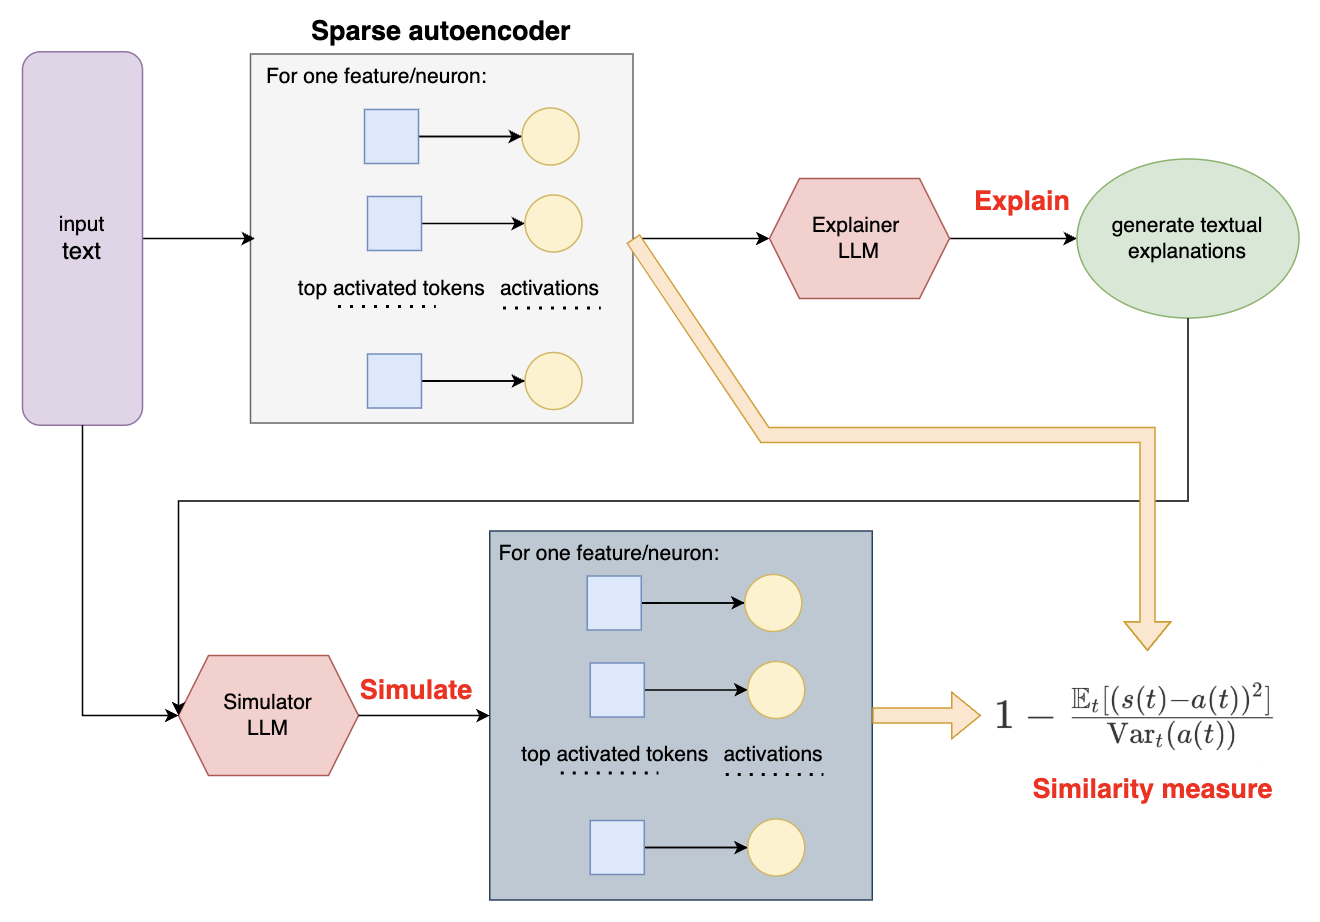
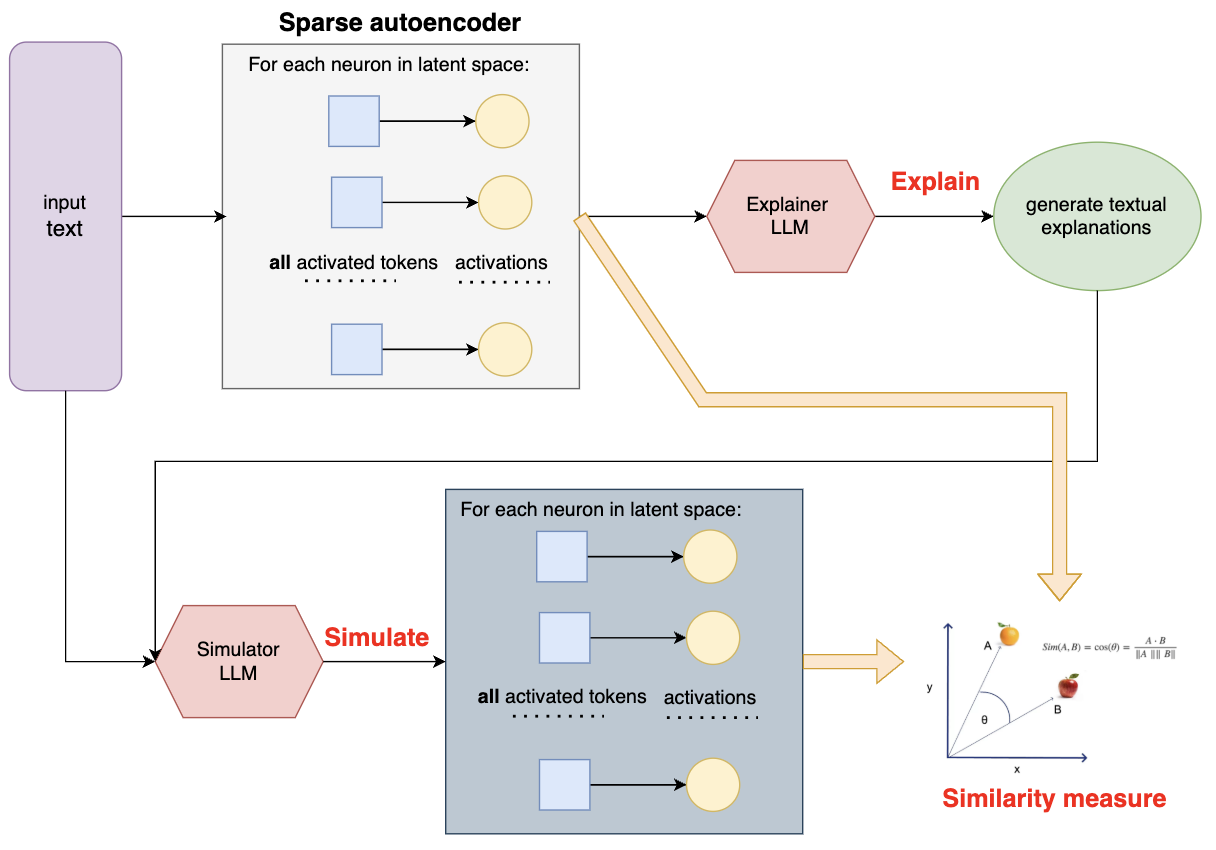
contrastive eval diagram

diff --git a/interpretability_eval/explain_simulate_eval.py b/interpretability_eval/explain_simulate_eval.py
@@ -5,8 +5,89 @@ import openai
 import os
 import pandas as pd
 from dotenv import load_dotenv
+from tqdm import tqdm
 from transformers import AutoTokenizer, GPT2Tokenizer
 from sae_lens import SAE, HookedSAETransformer
+from sklearn.metrics.pairwise import cosine_similarity
+from pydantic import BaseModel
+
+
+def explain(tokens: list[str], activations: np.array, client: openai.OpenAI):
+    """
+        Generate an explanation for the feature based on the top tokens and their activations.
+    """
+
+    token_activations = [(token, round(act.item() * 100)) for token, act in zip(tokens, activations)]
+    token_activations_str = "\n".join([f"{token}\t{act}" for token, act in token_activations])
+    non_zero_activations = [(token, act) for token, act in token_activations if act > 0]
+    non_zero_activations_str = "\n".join(f"{token}\t{act}" for token, act in non_zero_activations)
+    # print(token_activations)
+    prompt = f"""
+                We're studying neurons in a neural network. Each neuron looks for some particular thing in a short document. Look at the parts of the document the neuron activates for and summarize in a single sentence what the neuron is looking for. Don't list examples of words.
+
+                The activation format is token<tab>activation. Activation values range from 0 to 10. A neuron finding what it's looking for is represented by a non-zero activation value. The higher the activation value, the stronger the match.
+
+                Activations:
+                <start>
+                {
+                    token_activations_str
+                }
+                <end>
+
+                Same activations, but with all zeros filtered out:
+                <start>
+                {
+                    non_zero_activations_str
+                }
+                <end>
+
+                Explanation of neuron behavior: 
+            """
+
+    response = client.chat.completions.create(
+        model="gpt-4o",
+        messages=[
+            {"role": "system", "content": "You are an expert in interpreting neural network activations."},
+            {"role": "user", "content": prompt}
+        ],
+        temperature=0,
+    )
+    explanation = response.choices[0].message.content.strip()
+    return explanation
+
+class ActivationTokens(BaseModel):
+    activations: list[int]
+
+
+def simulate(example_tokens: list[str], explanation: str, client: openai.OpenAI):
+    """
+        Calls an LLM to produce a 'simulated' set of top tokens and normalized activations (0 to 100)
+    """
+    text_str = "\n".join(example_tokens)
+    prompt = f"""
+            We're studying neurons in a neural network. Each neuron looks for some particular thing in a short document. Look at an explanation of what the neuron does, and try to predict its activations on a particular token.
+            The activations range from 0 to 100. Most activations will be 0. Make sure you return EXACTLY {len(example_tokens)} activations.
+            Explanation of neuron behavior: {explanation}
+            <start>
+            {text_str}
+            <end>
+            """
+
+    # For demonstration, using openai.Completion. You can also use ChatCompletion.
+    response = client.beta.chat.completions.parse(
+        model="gpt-4o-2024-08-06",
+        messages=[
+            {"role": "system", "content": "You simulate neuron activations in language models."},
+            {"role": "user", "content": prompt}
+        ],
+        temperature=0,
+        response_format=ActivationTokens,
+    )
+
+    content = response.choices[0].message.parsed
+    # print(content.activations, content.tokens)
+
+    return np.array(content.activations) / 100.0
 
 
 def main():
@@ -25,19 +106,20 @@ def main():
     print(f"Using device: {device}")
     
     # Load LLaMA tokenizer
-    model_name = "meta-llama/Llama-3.2-1B"
-    #model_name = "gpt2-small"
+    #model_name = "meta-llama/Llama-3.2-1B"
+    model_name = "gpt2-small"
     
-    tokenizer = AutoTokenizer.from_pretrained(model_name)
-    #tokenizer = GPT2Tokenizer.from_pretrained("gpt2")
+    #tokenizer = AutoTokenizer.from_pretrained(model_name)
+    tokenizer = GPT2Tokenizer.from_pretrained("gpt2")
 
     tokenizer.pad_token = tokenizer.eos_token
     print("Tokenizer loaded!")
 
     # Load the trained SAE
-    architecture = "LLAMA_cache_kan_relu_dense"
+    # architecture = "LLAMA_cache_kan_relu_dense"
+    architecture = "GPT_cache_only_kan"
     steps = "1k"
-    best_model = "best_2457600_ce_2.09549_ori_2.03857"
+    best_model = "best_3686400_ce_2.35626_ori_2.33838"
     sae_checkpoint_path = f"checkpoints/{architecture}/{steps}/{best_model}/"
     sae = SAE.load_from_pretrained(path=sae_checkpoint_path, device=device)
     print("SAE loaded!")
@@ -51,13 +133,16 @@ def main():
     print("Model loaded!")
 
     # Example input text
-    example_text = "The stock market crashed during the economic crisis in 2008."
-    tokens = tokenizer(example_text, return_tensors="pt").to(device)
 
+    example_text = "The stock market crashed during the economic crisis in 2008, leading to a global recession."    
+    stuff = tokenizer.__call__(example_text, return_special_tokens_mask=True)
+    #print(stuff)
+    tokens = torch.tensor(stuff['input_ids']).to(device)
+    special_mask = np.array(stuff['special_tokens_mask'])
     # Extract activations from the correct layer
     with torch.no_grad():
-        _, cache = model.run_with_cache(tokens.input_ids) 
-    hidden_states = cache["blocks.0.hook_mlp_out"]
+        _, cache = model.run_with_cache(tokens) 
+    hidden_states = cache["blocks.5.hook_mlp_out"]  # LAYER 5!
 
     # Pass hidden states into SAE
     with torch.no_grad():
@@ -68,21 +153,61 @@ def main():
 
     # Select top 100 activated features
     num_features = activations.shape[2]
-    print(f"Number of features: {num_features}")
 
-    feature_activations_sum = activations[0, :, :].sum(axis=0)  # Shape: (num_features,)
+    feature_activations_sum = activations[0, :, :].sum(axis=0)
 
-    # randomly select 100 features
-    num_selected = min(100, num_features)
-    # random select
-    selected_feature_indices = np.random.choice(num_features, num_selected, replace=False)
+    # # randomly select features - approach 1
+    # num_selected = min(100, num_features)
+    # selected_feature_indices = np.random.choice(num_features, num_selected, replace=False)
+    
+    # 50 most activated features - approach 2
     num_selected = min(100, num_features)
     selected_feature_indices = np.argsort(feature_activations_sum)[-num_selected:]
 
+    # first 100 features - approach 3
 
-    print(f"Selected {num_selected} features for evaluation.")
-    print(f"The first 5 features are: {selected_feature_indices[:10]}")
-    print(f"corresponding activations: {feature_activations_sum[selected_feature_indices[:10]]}")
+    similarities = []
+
+    # Get the corresponding tokens and their activations
+    tokens = tokenizer.convert_ids_to_tokens(tokens)
+
+    for feature_idx in tqdm(selected_feature_indices):
+
+        # Get the activations for the current feature
+        feature_activations = activations[0, :, feature_idx]
+
+        simple_tokens = [tokens[i] for i in range(len(tokens)) if special_mask[i] == 0]
+        simple_activations = feature_activations[special_mask == 0]
+
+        #normalize the activations
+        simple_activations = simple_activations - np.min(simple_activations)
+        simple_activations = simple_activations / np.max(simple_activations)
+
+        # explain
+        explanation = explain(simple_tokens, simple_activations, client)
+        #print("\n  Explanation from LLM:", explanation)
+
+        # simulate
+        for i in range(10):
+            simulated_pairs = simulate(simple_tokens, explanation, client)
+            if len(simulated_pairs) == len(simple_activations):
+                break
+            else:
+                print("The model is fcking idiot! simulated_pairs length is", len(simulated_pairs), "but simple_activations length is", len(simple_activations))
+        #print("\n  Simulated pairs:", simulated_pairs)
+
+        # similarity measure
+        similarity = cosine_similarity(
+            simple_activations.reshape(1, -1),
+            simulated_pairs.reshape(1, -1)
+        )[0][0]
+        print(f"\n  Cosine similarity {similarity} for neuron {feature_idx}")
+        similarities.append(similarity)
 
 
-    
+    # compute the average cosine similarity
+    average_similarity = np.mean(np.array(similarities))
+    print(f"\n  Average cosine similarity for {architecture}: {average_similarity}")
+
+if __name__ == "__main__":
+    main()

diff --git a/interpretability_eval/simple_eval.py b/interpretability_eval/simple_eval.py
@@ -72,10 +72,13 @@ def main():
 
     feature_activations_sum = activations[0, :, :].sum(axis=0)  # Shape: (num_features,)
 
-    # randomly select 100 features
-    num_selected = min(100, num_features)
-    # random select
-    selected_feature_indices = np.random.choice(num_features, num_selected, replace=False)
+    # # randomly select 100 features -- appraoch 1
+    # num_selected = min(100, num_features)
+    # # random select
+    # selected_feature_indices = np.random.choice(num_features, num_selected, replace=False)
+
+
+    # alternatively, most activated features -- approach 2
     num_selected = min(100, num_features)
     selected_feature_indices = np.argsort(feature_activations_sum)[-num_selected:]
 

diff --git a/README.md b/README.md
@@ -9,3 +9,5 @@
 ![alt text](docs/score_assignment.png "Score Hard Assignement approach")
 
 ![alt text](docs/explain_simulate.png "Explain-then-Simulate aproach")
+
+![alt text](docs/contrastive_eval.png "contrastive evaluation approach")
